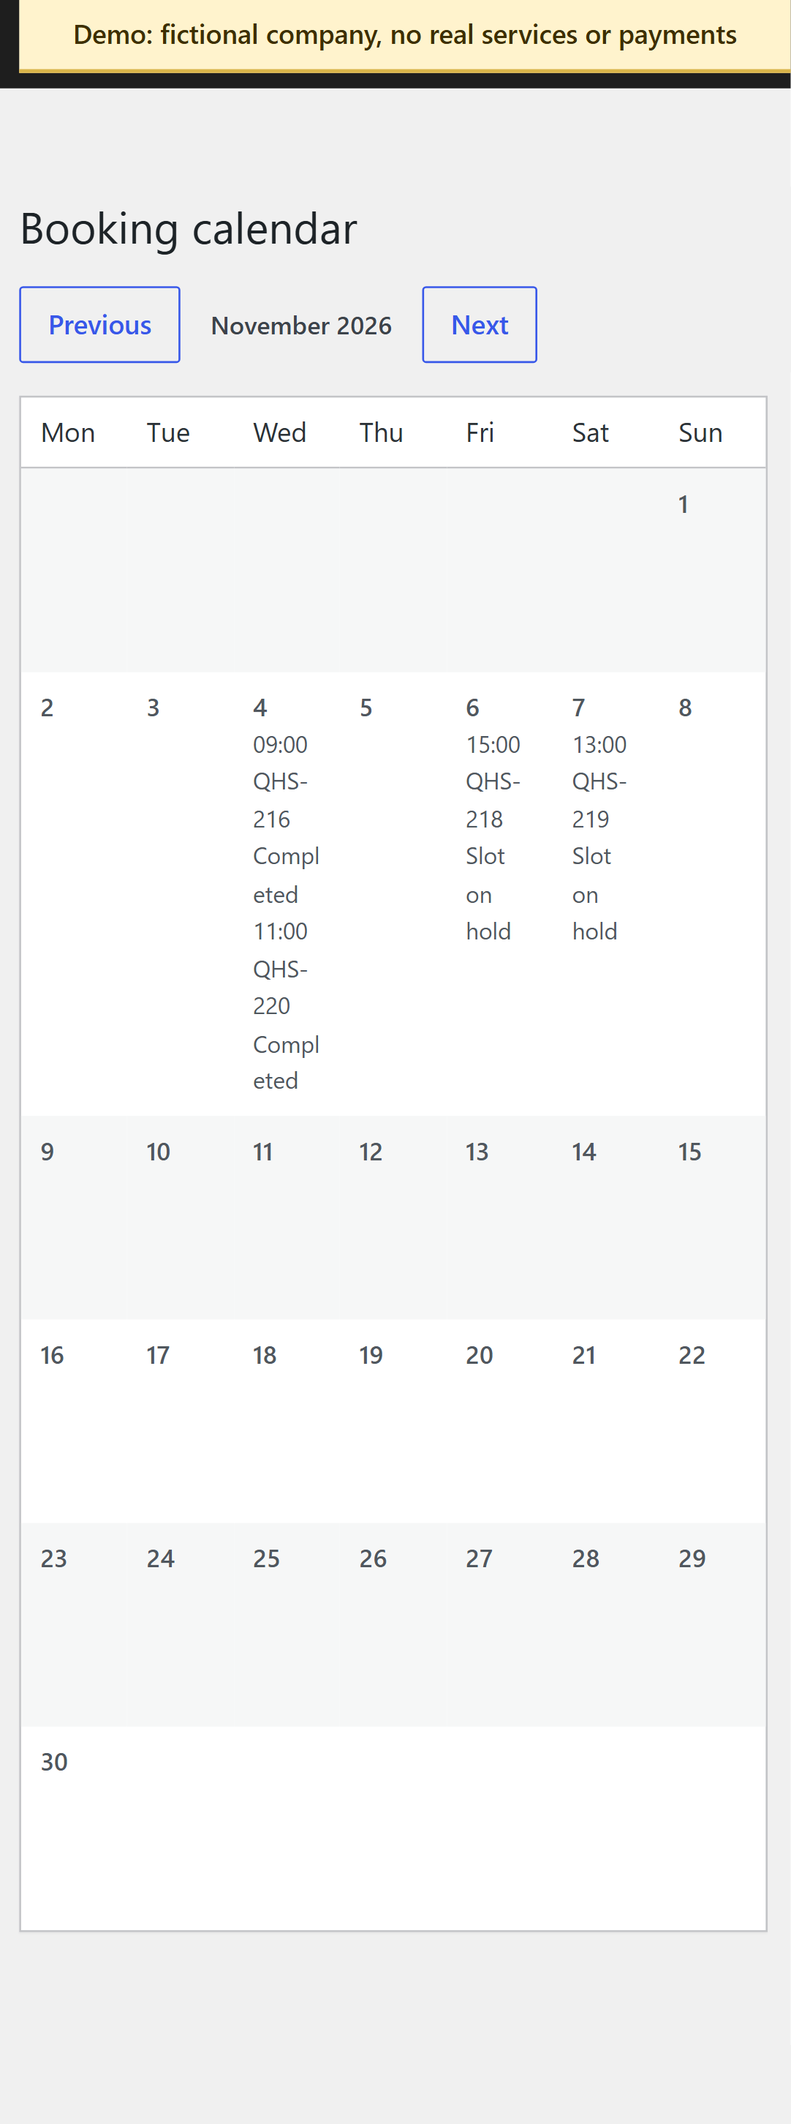
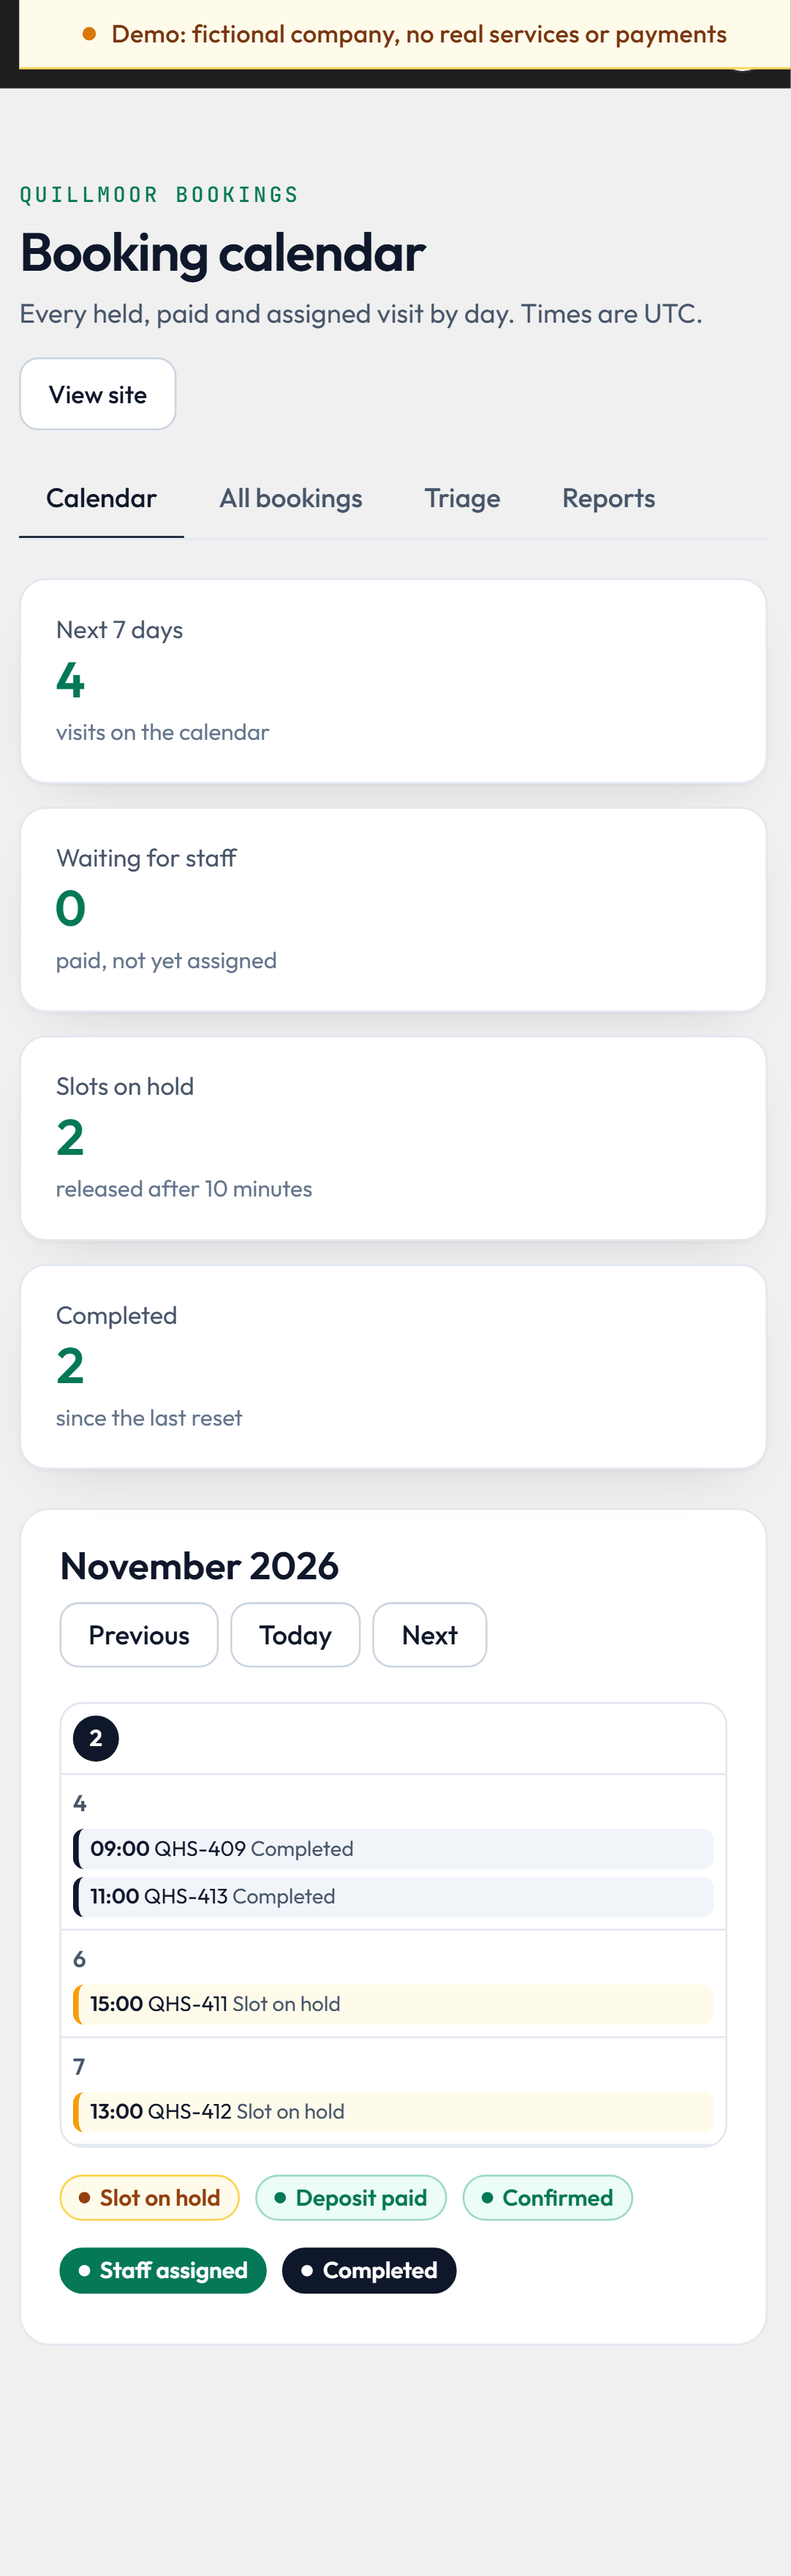
Update browser tests, screenshots and docs for the new interface

diff --git a/tests/e2e/specs/booking-flow.spec.js b/tests/e2e/specs/booking-flow.spec.js
@@ -1,7 +1,7 @@
 import fs from 'node:fs';
 import { expect, test } from '@playwright/test';
 import { sql } from '../global-setup.js';
-import { BANNER, bookingIdFrom, login, payDeposit, runWizard } from './helpers.js';
+import { BANNER, bookingIdFrom, login, payDeposit, runBooking } from './helpers.js';
 
 const SHOTS = process.env.SCREENSHOTS ? '../../docs/screenshots' : null;
 
@@ -15,10 +15,10 @@ async function shot( page, testInfo, name ) {
 test( 'quote to deposit, confirmation, assignment and completion', async ( { browser, page }, testInfo ) => {
 	const note = 'Smoke alarm keeps beeping and there is a small water leak under the sink.';
 
-	await test.step( 'customer gets a quote, holds a slot and pays the test deposit', async () => {
+	await test.step( 'customer searches, opens a service, holds a slot and pays the test deposit', async () => {
 		await login( page, 'demo-customer' );
 		await expect( page ).toHaveURL( /\/portal\// );
-		await runWizard( page, { note, slotIndex: 4 } );
+		await runBooking( page, { note, slotIndex: 4, fromSearch: true } );
 		await shot( page, testInfo, 'hold' );
 		await payDeposit( page );
 		await shot( page, testInfo, 'paid' );
@@ -34,6 +34,11 @@ test( 'quote to deposit, confirmation, assignment and completion', async ( { bro
 		} ).toPass( { timeout: 180000, intervals: [ 5000 ] } );
 		await expect( page.getByTestId( 'booking-staff' ) ).toHaveText( 'Rowan Vale' );
 		await shot( page, testInfo, 'assigned' );
+		await page.goto( '/portal/' );
+		await expect( page.getByTestId( 'tab-upcoming' ) ).toHaveAttribute( 'aria-selected', 'true' );
+		await expect( page.locator( `[data-testid="booking-card"][data-booking="${ bookingId }"]` ) ).toBeVisible();
+		await shot( page, testInfo, 'portal' );
+		await page.goto( `/portal/?booking=${ bookingId }` );
 	} );
 
 	await test.step( 'the confirmation PDF downloads', async () => {
@@ -77,6 +82,11 @@ test( 'quote to deposit, confirmation, assignment and completion', async ( { bro
 		await expect( adminPage.getByText( BANNER ) ).toBeVisible();
 		await expect( adminPage.locator( '.wrap' ) ).toContainText( `QHS-${ bookingId }` );
 		await shot( adminPage, testInfo, 'admin-calendar' );
+		await adminPage.goto( `/wp-admin/admin.php?page=qhs-bookings&s=QHS-${ bookingId }` );
+		await expect( adminPage.locator( '.qhs-admin__table' ) ).toContainText( `QHS-${ bookingId }` );
+		await expect( adminPage.locator( '.qhs-admin__table tbody tr' ) ).toHaveCount( 1 );
+		await adminPage.goto( '/wp-admin/admin.php?page=qhs-bookings' );
+		await shot( adminPage, testInfo, 'admin-bookings' );
 		await adminPage.goto( '/wp-admin/admin.php?page=qhs-reports' );
 		await expect( adminPage.locator( '.wrap' ) ).toContainText( 'Completed' );
 		await shot( adminPage, testInfo, 'admin-reports' );
@@ -91,29 +101,32 @@ test( 'quote to deposit, confirmation, assignment and completion', async ( { bro
 
 test( 'customer can reschedule and then cancel from the portal', async ( { page } ) => {
 	await login( page, 'demo-customer' );
-	await runWizard( page, { slotIndex: 10 } );
+	await runBooking( page, { slotIndex: 10 } );
 	await payDeposit( page );
 	const bookingId = bookingIdFrom( page.url() );
 	const before = await page.getByTestId( 'booking-slot' ).textContent();
 
 	await page.getByTestId( 'reschedule-open' ).click();
-	await page.getByTestId( 'reschedule-slot' ).nth( 12 ).click();
+	const dialog = page.getByTestId( 'reschedule-dialog' );
+	await expect( dialog ).toBeVisible();
+	await dialog.locator( '[data-testid="cal-day"].is-open' ).nth( 2 ).click();
+	await dialog.getByTestId( 'reschedule-slot' ).first().click();
 	await expect( page.getByTestId( 'portal-notice' ) ).toContainText( 'updated' );
 	await expect( page.getByTestId( 'booking-slot' ) ).not.toHaveText( before );
 
-	page.once( 'dialog', ( dialog ) => dialog.accept() );
 	await page.getByTestId( 'cancel' ).click();
+	await page.getByTestId( 'cancel-confirm' ).click();
 	await expect( page.getByTestId( 'booking-state' ) ).toHaveText( 'Cancelled' );
 	expect( sql( `SELECT COUNT(*) FROM qwp_qhs_slot_claims WHERE booking_id = ${ bookingId }` ) ).toBe( '0' );
 } );
 
 test( 'a guest gets a quote without an account', async ( { page }, testInfo ) => {
-	await runWizard( page, { slotIndex: 14, email: `guest-${ testInfo.project.name }@example.com` } );
+	await runBooking( page, { slotIndex: 14, email: `guest-${ testInfo.project.name }@example.com` } );
 	await expect( page.getByTestId( 'pay-link' ) ).toContainText( 'test deposit' );
 } );
 
 test( 'the banner shows on every page and nothing scrolls sideways', async ( { page } ) => {
-	for ( const path of [ '/', '/quote/', '/portal/', '/staff/', '/demo/', '/wp-login.php' ] ) {
+	for ( const path of [ '/', '/services/', '/book/?service=lawn', '/portal/', '/staff/', '/demo/', '/wp-login.php' ] ) {
 		await page.goto( path );
 		await expect( page.getByText( BANNER ), path ).toBeVisible();
 		const overflow = await page.evaluate( () => {
@@ -140,7 +153,7 @@ test( 'demo accounts stay inside their area', async ( { page } ) => {
 } );
 
 test( 'a customer cannot open another customer booking', async ( { browser, page }, testInfo ) => {
-	await runWizard( page, { slotIndex: 16, email: `owner-${ testInfo.project.name }@example.com` } );
+	await runBooking( page, { slotIndex: 16, email: `owner-${ testInfo.project.name }@example.com` } );
 	const bookingId = sql( "SELECT MAX(id) FROM qwp_qhs_bookings" );
 
 	const other = await browser.newContext( { ...testInfo.project.use, baseURL: testInfo.project.use.baseURL } );
@@ -149,4 +162,70 @@ test( 'a customer cannot open another customer booking', async ( { browser, page
 	await otherPage.goto( `/portal/?booking=${ bookingId }` );
 	await expect( otherPage.locator( '#qhs-portal' ) ).toContainText( 'Booking not found' );
 	await other.close();
+} );
+
+test( 'search, chips, filters and sorting narrow the service list', async ( { page }, testInfo ) => {
+	await page.goto( '/services/' );
+	await expect( page.getByText( BANNER ) ).toBeVisible();
+	const cards = page.locator( '.qhs-svc:visible' );
+	await expect( cards ).toHaveCount( 6 );
+	await shot( page, testInfo, 'services' );
+
+	await page.getByTestId( 'chip-garden' ).click();
+	await expect( cards ).toHaveCount( 2 );
+	await expect( page ).toHaveURL( /category=garden/ );
+	await page.getByTestId( 'sort' ).selectOption( 'price-asc' );
+	await expect( cards.first() ).toHaveAttribute( 'data-key', 'lawn' );
+
+	await page.getByTestId( 'chip-all' ).click();
+	await page.getByTestId( 'filters-toggle' ).click();
+	await page.getByTestId( 'filter-length-short' ).check();
+	await expect( cards ).toHaveCount( 3 );
+	await expect( page.locator( '.qhs-svc[data-key="deep-clean"]' ) ).toBeHidden();
+	await page.getByTestId( 'sort' ).selectOption( 'price-desc' );
+	await expect( cards.first() ).toHaveAttribute( 'data-key', 'handyman' );
+	await page.locator( '[data-qhs-filters] [data-qhs-clear]' ).click();
+	await expect( cards ).toHaveCount( 6 );
+} );
+
+test( 'the date panel and the reservation calendar work from the keyboard', async ( { page }, testInfo ) => {
+	await page.goto( '/' );
+	await shot( page, testInfo, 'home' );
+	await page.getByTestId( 'search-open-date' ).focus();
+	await page.keyboard.press( 'Enter' );
+	const panel = page.locator( '#qhs-pop-date' );
+	await expect( panel ).toBeVisible();
+	await page.keyboard.press( 'Escape' );
+	await expect( panel ).toHaveCount( 0 );
+	await expect( page.getByTestId( 'search-open-date' ) ).toBeFocused();
+
+	await page.goto( '/book/?service=handyman&area=central' );
+	const first = page.locator( '[data-qhs-reserve] [data-testid="cal-day"].is-open' ).first();
+	await first.click();
+	const firstDate = await first.getAttribute( 'data-date' );
+	await page.locator( `[data-qhs-reserve] [data-date="${ firstDate }"]` ).focus();
+	await page.keyboard.press( 'ArrowRight' );
+	const next = await page.evaluate( () => document.activeElement.getAttribute( 'data-date' ) );
+	expect( next ).not.toBe( firstDate );
+	await page.keyboard.press( 'Enter' );
+	const moved = page.locator( `[data-qhs-reserve] [data-date="${ next }"]` );
+	if ( await moved.evaluate( ( node ) => node.classList.contains( 'is-open' ) ) ) {
+		await expect( moved ).toHaveAttribute( 'aria-pressed', 'true' );
+	}
+	await expect( page.getByTestId( 'slot' ).first() ).toBeVisible();
+	await shot( page, testInfo, 'service' );
+} );
+
+test( 'the drawer menu opens with focus inside and closes on Escape at phone width', async ( { page }, testInfo ) => {
+	test.skip( testInfo.project.name !== 'phone', 'The drawer only shows on narrow screens.' );
+	await page.goto( '/' );
+	const opener = page.getByRole( 'button', { name: 'Open menu' } );
+	await opener.click();
+	const drawer = page.getByRole( 'dialog', { name: 'Menu' } );
+	await expect( drawer ).toBeVisible();
+	await expect( drawer.getByRole( 'link', { name: 'Services' } ) ).toBeFocused();
+	await shot( page, testInfo, 'menu' );
+	await page.keyboard.press( 'Escape' );
+	await expect( drawer ).toBeHidden();
+	await expect( opener ).toBeFocused();
 } );

diff --git a/tests/e2e/specs/helpers.js b/tests/e2e/specs/helpers.js
@@ -4,10 +4,16 @@ export const PASSWORD = process.env.QHS_DEMO_PASSWORD || 'quillmoor-demo-2026';
 export const BANNER = 'Demo: fictional company, no real services or payments';
 
 export async function login( page, username ) {
-	await page.goto( '/wp-login.php' );
+	await page.goto( '/wp-login.php', { waitUntil: 'load' } );
 	await expect( page.getByText( BANNER ) ).toBeVisible();
-	await page.fill( '#user_login', username );
-	await page.fill( '#user_pass', PASSWORD );
+	// The login screen focuses and selects the username field shortly after load. Fill after that.
+	await expect( page.locator( '#user_login' ) ).toBeFocused();
+	await expect( async () => {
+		await page.fill( '#user_login', username );
+		await page.fill( '#user_pass', PASSWORD );
+		await expect( page.locator( '#user_login' ) ).toHaveValue( username, { timeout: 500 } );
+		await expect( page.locator( '#user_pass' ) ).toHaveValue( PASSWORD, { timeout: 500 } );
+	} ).toPass( { timeout: 10000 } );
 	await page.click( '#wp-submit' );
 	await page.waitForLoadState( 'domcontentloaded' );
 }
@@ -16,17 +22,61 @@ export async function waitForTurnstile( page ) {
 	await page.waitForFunction( () => {
 		const input = document.querySelector( '.qhs-turnstile input[name="cf-turnstile-response"]' );
 		return input && input.value.length > 0;
-	}, null, { timeout: 30000 } );
+	}, null, { timeout: 60000 } );
 }
 
-export async function runWizard( page, { note = '', slotIndex = 0, email = '' } = {} ) {
-	await page.goto( '/quote/' );
+/* Search from the home page: each field opens a panel and moves on to the next one. */
+export async function searchFromHome( page, { category = 'cleaning', area = 'north', size = 'small' } = {} ) {
+	await page.goto( '/' );
 	await expect( page.getByText( BANNER ) ).toBeVisible();
-	await page.getByTestId( 'service-cleaning' ).click();
-	await page.getByTestId( 'size-small' ).click();
-	await page.getByTestId( 'area-north' ).click();
+	await page.getByTestId( 'search-open-category' ).click();
+	await page.getByTestId( `search-category-${ category }` ).click();
+	await page.getByTestId( `search-area-${ area }` ).click();
+	await page.locator( '#qhs-pop-date' ).getByRole( 'button', { name: 'Any date' } ).click();
+	await page.getByTestId( `search-size-${ size }` ).click();
+	await page.getByTestId( 'search-submit' ).click();
+	await page.waitForURL( /\/services\/\?/ );
+}
+
+/* Pick the nth open slot for the district shown on the card, moving months when needed. */
+export async function pickSlot( page, slotIndex ) {
+	await expect( page.locator( '[data-testid="cal-day"].is-open' ).first() ).toBeVisible();
+	const area = await page.locator( '[data-qhs-reserve] [aria-pressed="true"][data-testid^="reserve-area-"]' ).getAttribute( 'data-testid' );
+	const slot = await page.evaluate( async ( key ) => {
+		const response = await fetch( `${ window.qhs.config.rest }availability?area=${ key }` );
+		const { days } = await response.json();
+		return Object.values( days ).flat();
+	}, area.replace( 'reserve-area-', '' ) ).then( ( slots ) => slots[ slotIndex ] );
+	expect( slot, 'enough open slots' ).toBeTruthy();
+	const day = page.locator( `[data-qhs-reserve] [data-testid="cal-day"][data-date="${ slot.slice( 0, 10 ) }"]` );
+	if ( ! ( await day.count() ) ) {
+		await page.locator( '[data-qhs-reserve]' ).getByRole( 'button', { name: 'Next month' } ).click();
+	}
+	await day.click();
+	await page.locator( `[data-testid="slot"][data-slot="${ slot }"]` ).click();
+	return slot;
+}
+
+/* Service page to a held slot: size, district, day, time, extras, details, hold. */
+export async function runBooking( page, { note = '', slotIndex = 0, email = '', fromSearch = false } = {} ) {
+	if ( fromSearch ) {
+		await searchFromHome( page );
+		await page.getByTestId( 'service-card-cleaning' ).getByRole( 'link' ).click();
+		await page.waitForURL( /\/book\/\?service=cleaning/ );
+	} else {
+		await page.goto( '/book/?service=cleaning' );
+		await page.getByTestId( 'reserve-area-north' ).click();
+	}
+	await expect( page.getByText( BANNER ) ).toBeVisible();
+	await expect( page.getByTestId( 'reserve-size-small' ) ).toHaveAttribute( 'aria-pressed', 'true' );
+	await expect( page.getByTestId( 'reserve-area-north' ) ).toHaveAttribute( 'aria-pressed', 'true' );
+
+	await pickSlot( page, slotIndex );
 	await page.getByTestId( 'extra-supplies' ).check();
-	await page.getByTestId( 'extras-next' ).click();
+	await expect( page.getByTestId( 'estimate-total' ) ).toHaveText( '$135.00' );
+	await expect( page.getByTestId( 'estimate-deposit' ) ).toHaveText( '$27.00' );
+	await page.getByTestId( 'reserve-continue' ).click();
+
 	if ( email ) {
 		await page.getByTestId( 'field-full_name' ).fill( 'Playwright Visitor' );
 		await page.getByTestId( 'field-email' ).fill( email );
@@ -35,14 +85,10 @@ export async function runWizard( page, { note = '', slotIndex = 0, email = '' } 
 		await page.getByTestId( 'field-note' ).fill( note );
 	}
 	await waitForTurnstile( page );
-	await page.getByTestId( 'quote-submit' ).click();
+	await page.getByTestId( 'hold-submit' ).click();
 
 	await expect( page.getByTestId( 'quote-total' ) ).toHaveText( '$135.00' );
 	await expect( page.getByTestId( 'quote-deposit' ) ).toHaveText( '$27.00' );
-
-	await page.getByTestId( 'slot' ).nth( slotIndex ).click();
-	await waitForTurnstile( page );
-	await page.getByTestId( 'hold-submit' ).click();
 	await expect( page.getByTestId( 'hold-countdown' ) ).toHaveText( /^(9|10):\d\d$/ );
 }
 

diff --git a/README.md b/README.md
@@ -1,8 +1,9 @@
 # Booking and Quote System
 
 A working booking system for a fictional home services company, built on WordPress and
-WooCommerce with a Laravel dispatch service and n8n automation. A visitor gets an instant quote,
-holds a slot for ten minutes, pays a test deposit, and staff take the job through to completion.
+WooCommerce with a Laravel dispatch service and n8n automation. A visitor searches services, opens a
+service page, picks a day and a time on the reservation card, holds the slot for ten minutes, pays a
+test deposit, and staff take the job through to completion.
 
 **Quillmoor Home Services is invented.** No real services or payments are offered, all prices are
 fictional, and Stripe runs in test mode only.
@@ -11,14 +12,21 @@ Built by [Lotfi Otmanine](https://oldev.site).
 
 ## What it does
 
-- **Quote wizard:** rule-based pricing by service, size, area and extras, computed on the server.
+- **Search and results:** a pill search bar for service, district, date and home size, category
+  chips, price and visit-length filters, and sorting.
+- **Service pages:** gallery, what is included, extras, districts, and a sticky reservation card with
+  a keyboard-operable calendar, start-time chips and a live price breakdown.
+- **Pricing:** rule-based by service, size, area and extras. The card shows an estimate; the server
+  computes the real price when the quote is created.
 - **Availability and holds:** slots are held for ten minutes, then released automatically.
 - **Double-booking protection:** a unique database key decides who gets a slot, so it holds under
   concurrent requests.
 - **Deposits:** through WooCommerce and Stripe test mode, compatible with HPOS and the Checkout block.
 - **State machine:** quote, hold, deposit paid, confirmed, assigned, completed or cancelled.
-- **Portals:** customers view, reschedule or cancel. Staff see their schedule and update job status.
-- **Admin:** a calendar and a reporting screen, plus PDF quotes and confirmations.
+- **Portals:** customers get upcoming, past and cancelled tabs, a progress timeline, reschedule and
+  cancel dialogs. Staff get a day agenda with a one-tap next step for each job.
+- **Admin:** a month calendar, a searchable bookings list, triage and reports in wp-admin, plus PDF
+  quotes and confirmations.
 - **Dispatch:** a Laravel service assigns staff by area, skill and load, and answers over signed requests.
 - **Automation:** n8n handles booking events, reminders, follow-ups, alerts and AI triage of
   customer notes. AI suggestions wait for a person and never change a booking by themselves.
@@ -70,19 +78,41 @@ refused at boot and on save, and a live key closes every booking route and remov
 **Events are stored before they are sent.** An outbox row is written with each state change, and a
 job delivers it with retries, so an n8n outage delays side effects and loses nothing.
 
+**The interface is a custom plugin, not a booking plugin.** Search, results, the service page, the
+portal and the staff agenda are five dynamic blocks in `quillmoor-booking`, written in plain
+JavaScript on top of the plugin's own REST routes. Pages render on the server first, so the search
+form and the service details work before any script runs. The theme is a block theme with its own
+header and footer blocks, a mobile drawer, and the type and colour system of oldev.site in light
+mode.
+
+**The card says when booking is paused.** If Turnstile keys or a payment gateway are missing, the
+reservation card lists what is missing up front instead of failing at the last step.
+
 ## Screenshots
 
-| Quote and slot hold | Staff schedule |
+| Home and search | Results with filters |
 |---|---|
-| ![Slot on hold](docs/screenshots/desktop-hold.png) | ![Staff schedule](docs/screenshots/desktop-staff-schedule.png) |
+| ![Home](docs/screenshots/desktop-home.png) | ![Services](docs/screenshots/desktop-services.png) |
 
-| Booking assigned | Admin calendar |
+| Service page and reservation card | Slot on hold |
 |---|---|
-| ![Booking assigned](docs/screenshots/desktop-assigned.png) | ![Admin calendar](docs/screenshots/desktop-admin-calendar.png) |
+| ![Service page](docs/screenshots/desktop-service.png) | ![Slot on hold](docs/screenshots/desktop-hold.png) |
 
-| Reports | Phone width |
+| Customer: your bookings | Customer: booking confirmed |
 |---|---|
-| ![Reports](docs/screenshots/desktop-admin-reports.png) | ![Phone](docs/screenshots/phone-hold.png) |
+| ![Your bookings](docs/screenshots/desktop-portal.png) | ![Confirmed](docs/screenshots/desktop-paid.png) |
+
+| Staff agenda | Admin calendar |
+|---|---|
+| ![Staff agenda](docs/screenshots/desktop-staff-schedule.png) | ![Admin calendar](docs/screenshots/desktop-admin-calendar.png) |
+
+| Admin bookings list | Admin reports |
+|---|---|
+| ![All bookings](docs/screenshots/desktop-admin-bookings.png) | ![Reports](docs/screenshots/desktop-admin-reports.png) |
+
+| Phone: search | Phone: service page | Phone: menu |
+|---|---|---|
+| ![Phone home](docs/screenshots/phone-home.png) | ![Phone service](docs/screenshots/phone-service.png) | ![Phone menu](docs/screenshots/phone-menu.png) |
 
 These are captures from the automated test run, which uses the local fake gateway.
 
@@ -154,11 +184,11 @@ cd tests/e2e && npm ci && npx playwright install chromium && npx playwright test
 
 | Check | Result |
 |---|---|
-| WordPress PHPUnit | 159 tests, 301 assertions, passing on PHP 8.5.12 |
+| WordPress PHPUnit | 171 tests, 380 assertions, passing on PHP 8.5.12 |
 | Laravel PHPUnit | 21 tests, 55 assertions, passing on PHP 8.5.12 |
-| PHPCS (WordPress-Core and WordPress-Extra) | no errors or warnings |
+| PHPCS (WordPress-Core and WordPress-Extra) | no errors or warnings in the plugin; the theme also passes WordPress-Extra |
 | PHPStan level 6 | no errors |
-| Playwright | 12 tests, passing at desktop and phone width |
+| Playwright | 9 tests per width: 17 passed, 1 skipped (the drawer test runs at phone width only) |
 | Parallel holds | 6 rounds of 12 parallel requests: 1 winner per slot, 2 where two crews exist |
 | Control | with the unique key dropped, all 12 requests won, so the test does detect double booking |
 | Mutation check | 16 of 16 deliberate security breaks caught |
@@ -178,13 +208,19 @@ The password is shown on the `/demo/` page of the running site.
 |---|---|---|
 | Customer | `demo-customer` | Quote, book, reschedule, cancel |
 | Staff | `demo-staff` | See assigned jobs, update status, review AI suggestions |
-| Admin | `demo-admin` | Calendar, reports and triage only. Not a WordPress administrator |
+| Admin | `demo-admin` | Calendar, bookings list, reports and triage only. Not a WordPress administrator |
 
 Demo accounts cannot change their password or email. Data resets every night at 03:00 UTC.
 
 ## Deploying
 
 See [DEPLOY.md](DEPLOY.md).
+
+## Credits
+
+- Illustrations: original SVG files made for this project, in `wordpress/plugin/quillmoor-booking/assets/img/`.
+- Fonts: Outfit and JetBrains Mono, self-hosted under the SIL Open Font License 1.1. The licence
+  texts are in `wordpress/theme/quillmoor/assets/fonts/`.
 
 ## Versions
 

diff --git a/DEPLOY.md b/DEPLOY.md
@@ -110,7 +110,7 @@ curl -s -o /dev/null -w "%{http_code}\n" \
 
 Then run one test payment:
 
-1. Sign in on `/demo/` as `demo-customer`, get a quote and hold a slot.
+1. Sign in on `/demo/` as `demo-customer`, open a service from `/services/`, pick a district, a day and a time on the reservation card, and hold the slot.
 2. Pay with Stripe's test card `4242 4242 4242 4242`, any future expiry, any CVC.
 3. Refresh the portal. Within about two minutes the booking should reach **Staff assigned**.
 4. Sign in as `demo-admin` and open Bookings, Reports. "Events waiting for n8n" should be 0.
